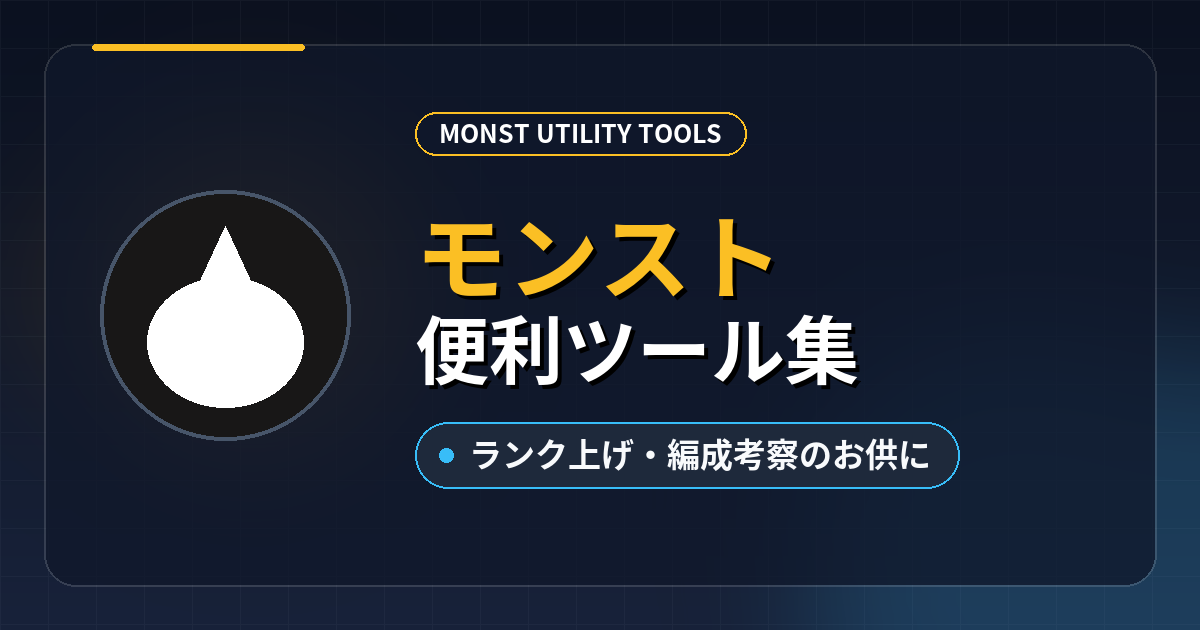
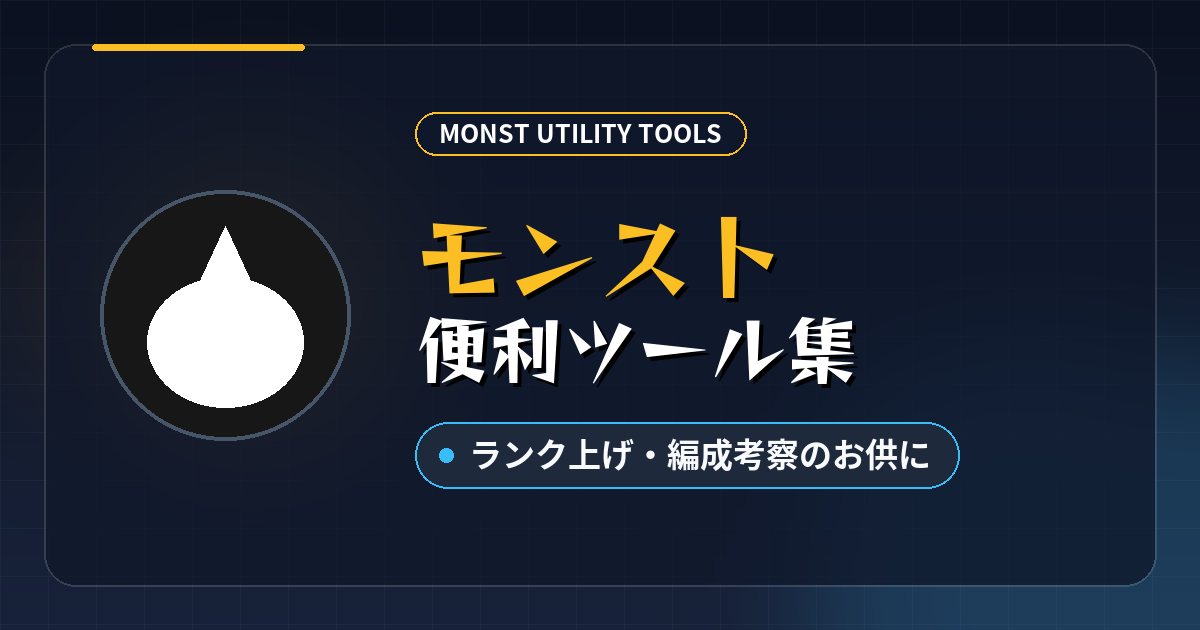
Regee One フォントをOGP画像に適用

Changed region(s): [[0.3392, 0.3317, 0.74, 0.6333], [0.5858, 0.3317, 0.6475, 0.4825], [0.4933, 0.4524, 0.5242, 0.4825]]

diff --git a/ogp/ogp-generator.py b/ogp/ogp-generator.py
@@ -7,6 +7,7 @@ W, H = 1200, 630
 FONT_BOLD = "/usr/share/fonts/opentype/noto/NotoSansCJK-Bold.ttc"
 if not os.path.exists(FONT_BOLD):
     FONT_BOLD = "/usr/share/fonts/truetype/noto/NotoSansCJK-Bold.ttc"
+FONT_REGGAE = "/app/public/fonts/reggae-one-v20-japanese_latin-regular.woff2"
 
 # ダークグラデーション背景
 base = Image.new("RGBA", (W, H), "#090d16")
@@ -67,9 +68,15 @@ draw.polygon([(cx, cy - 89), (cx - 30, cy - 24), (cx + 30, cy - 24)], fill="#fff
 
 # 右側：タイポグラフィ（NotoSansCJK-Bold）
 font_badge = ImageFont.truetype(FONT_BOLD, 25)
-font_title_main = ImageFont.truetype(FONT_BOLD, 92)
-font_title_sub = ImageFont.truetype(FONT_BOLD, 74)
 font_sub = ImageFont.truetype(FONT_BOLD, 33)
+try:
+    font_title_main = ImageFont.truetype(FONT_REGGAE, 92)
+    font_title_sub = ImageFont.truetype(FONT_REGGAE, 74)
+except Exception:
+    # 万が一読み込めない場合のフォールバック
+    font_title_main = ImageFont.truetype(FONT_BOLD, 92)
+    font_title_sub = ImageFont.truetype(FONT_BOLD, 74)
+
 
 text_x = 415
 
